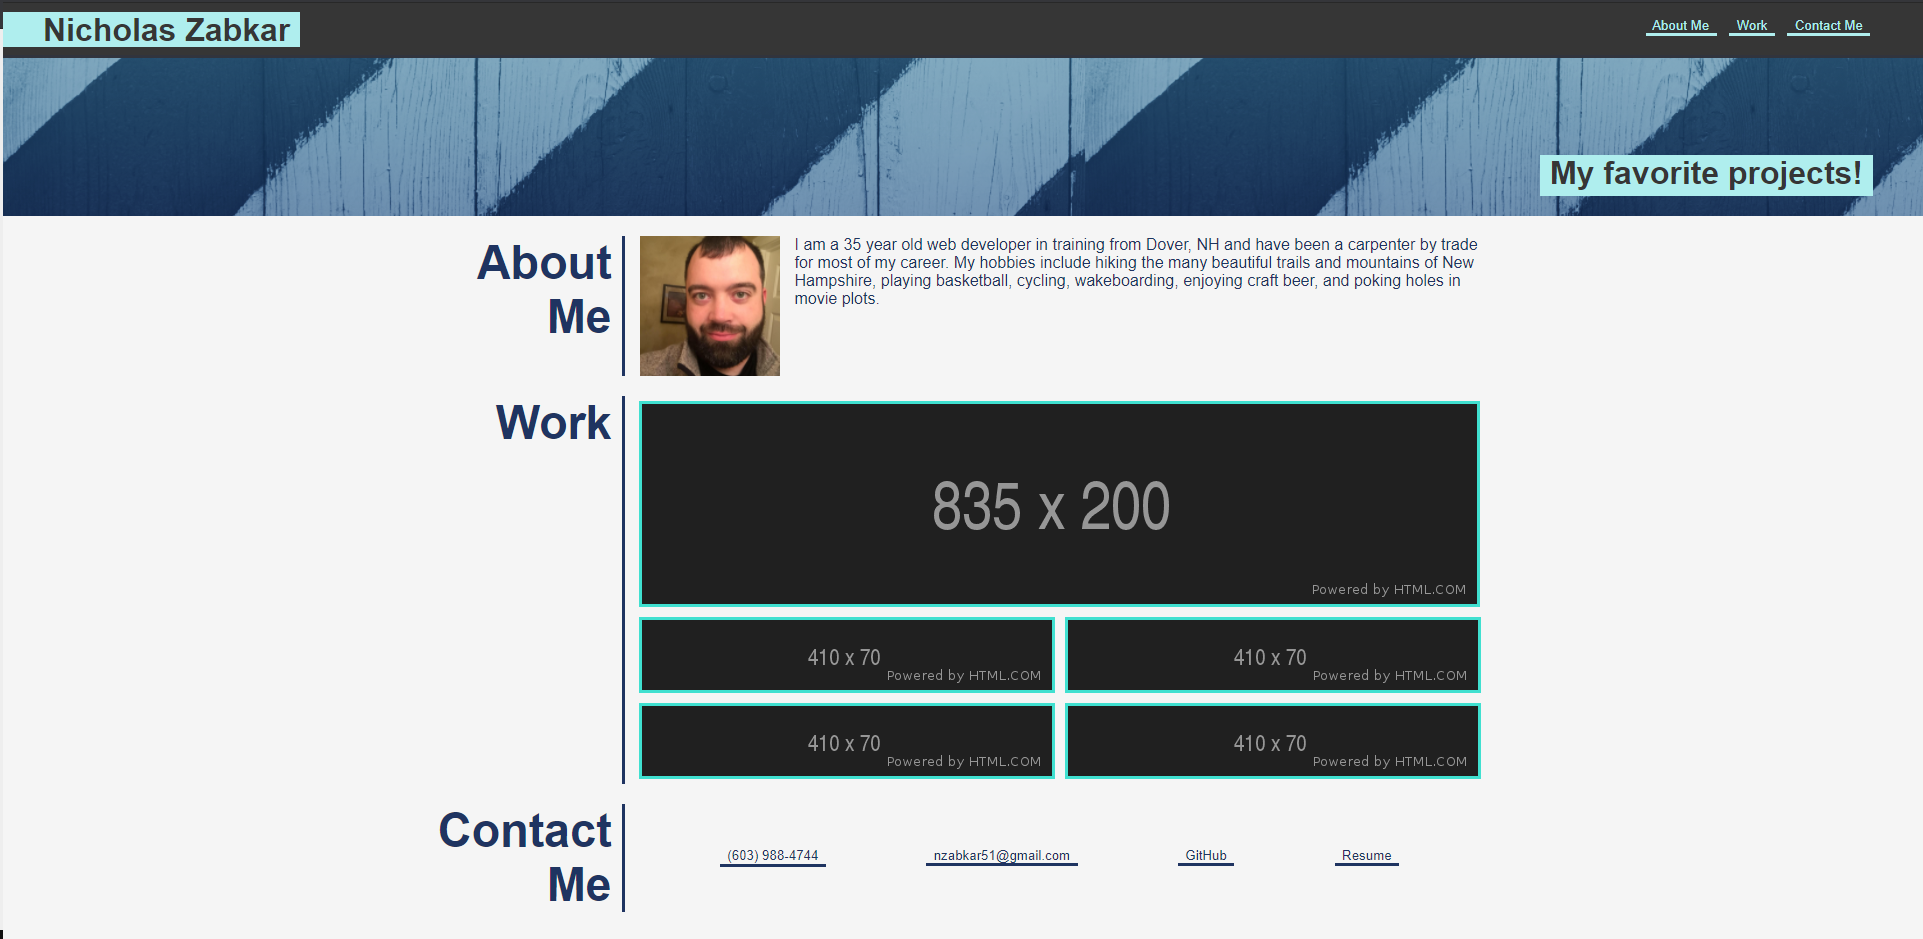
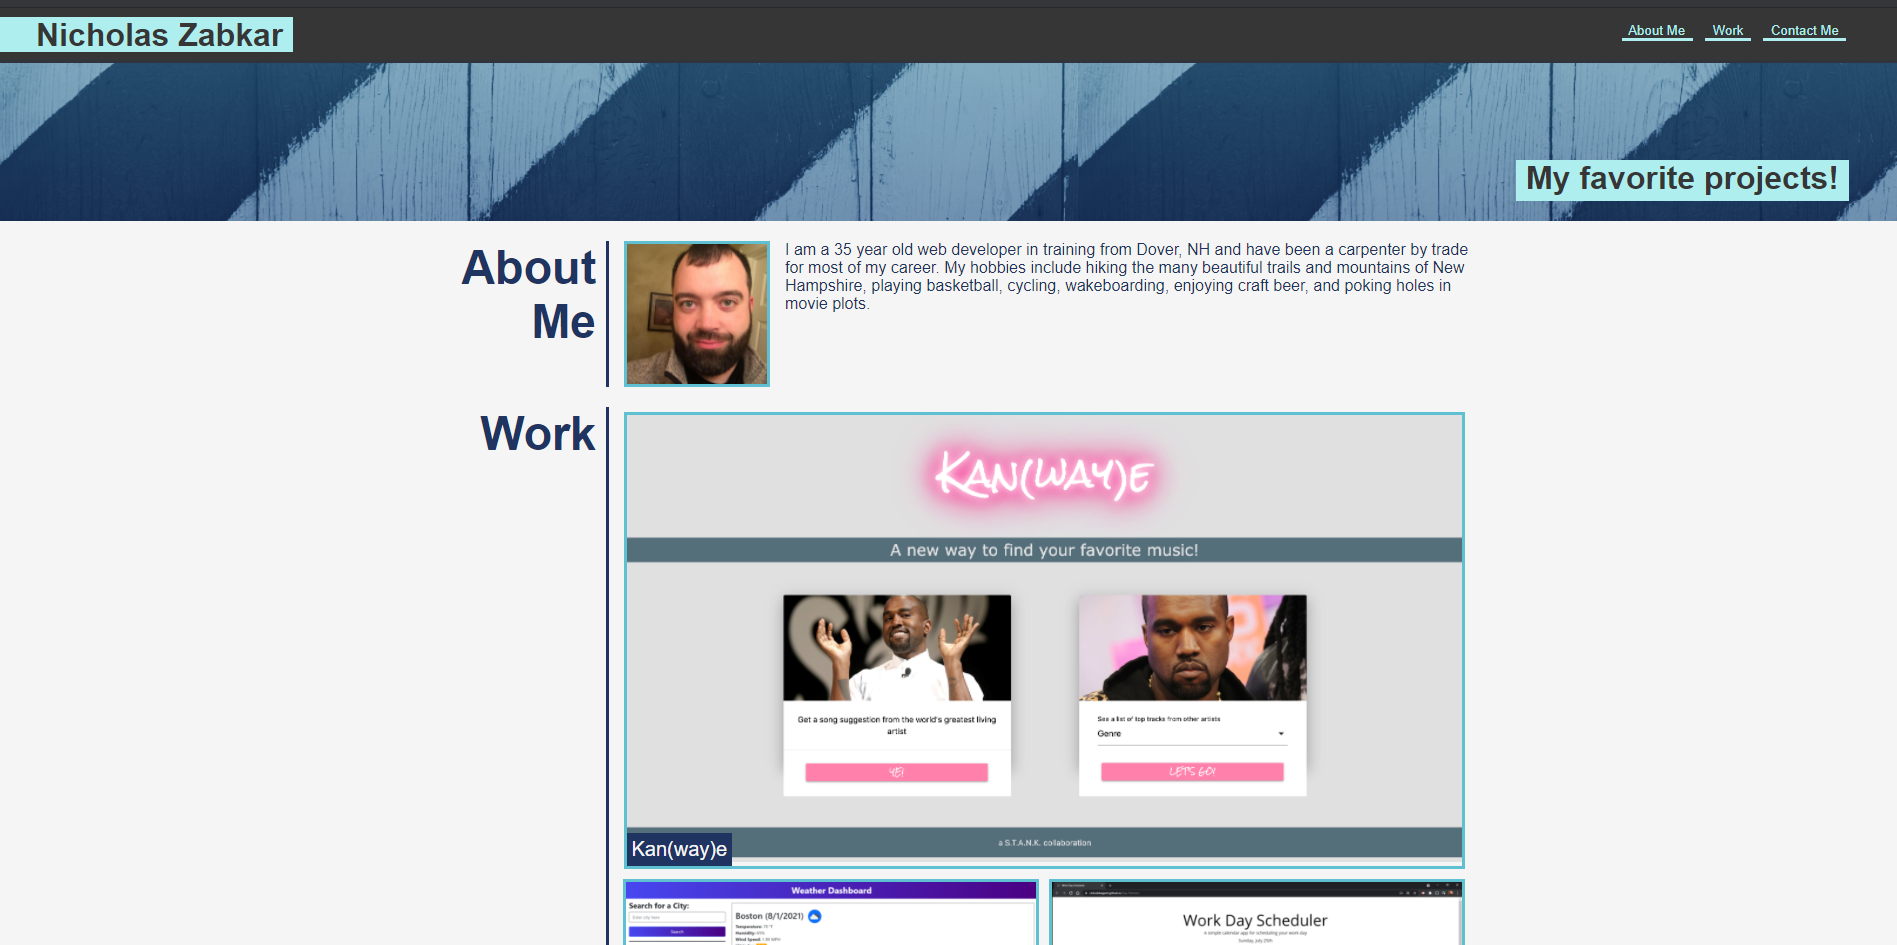
Updated screenshots

diff --git a/README.md b/README.md
@@ -17,7 +17,11 @@ as well as to display selected projects i have completed.
 ## Screenshots
 ![Web Developer Portfolio_1](https://github.com/CIDoubleAgent/my-web-developer-portfolio/blob/main/images/Web%20Developer%20Portfolio_1.png?raw=true)
 
-![Web Developer Portfolio_2](https://github.com/CIDoubleAgent/my-web-developer-portfolio/blob/main/images/Web%20Developer%20Portfolio_2.png?raw=true) ![Web Developer Portfolio_3](https://github.com/CIDoubleAgent/my-web-developer-portfolio/blob/main/images/Web%20Developer%20Portfolio_3.png?raw=true)
+![Web Developer Portfolio_2](https://github.com/CIDoubleAgent/my-web-developer-portfolio/blob/main/images/Web%20Developer%20Portfolio_2.png?raw=true)
+
+![Web Developer Portfolio_3](https://github.com/CIDoubleAgent/my-web-developer-portfolio/blob/main/images/Web%20Developer%20Portfolio_3.png?raw=true)
+
+![Web Developer Portfolio_4](https://github.com/CIDoubleAgent/my-web-developer-portfolio/blob/main/images/Web%20Developer%20Portfolio_4.png?raw=true)
 
 ## MIT Liscense
 Copyright © 2021 Nicholas Zabkar
@@ -29,4 +33,4 @@ The above copyright notice and this permission notice shall be included in all c
 THE SOFTWARE IS PROVIDED “AS IS”, WITHOUT WARRANTY OF ANY KIND, EXPRESS OR IMPLIED, INCLUDING BUT NOT LIMITED TO THE WARRANTIES OF MERCHANTABILITY, FITNESS FOR A PARTICULAR PURPOSE AND NONINFRINGEMENT. IN NO EVENT SHALL THE AUTHORS OR COPYRIGHT HOLDERS BE LIABLE FOR ANY CLAIM, DAMAGES OR OTHER LIABILITY, WHETHER IN AN ACTION OF CONTRACT, TORT OR OTHERWISE, ARISING FROM, OUT OF OR IN CONNECTION WITH THE SOFTWARE OR THE USE OR OTHER DEALINGS IN THE SOFTWARE.
 
 ## Contact Information
-GitHub: CIDoubleAgent
+GitHub: CIDoubleAgent.
